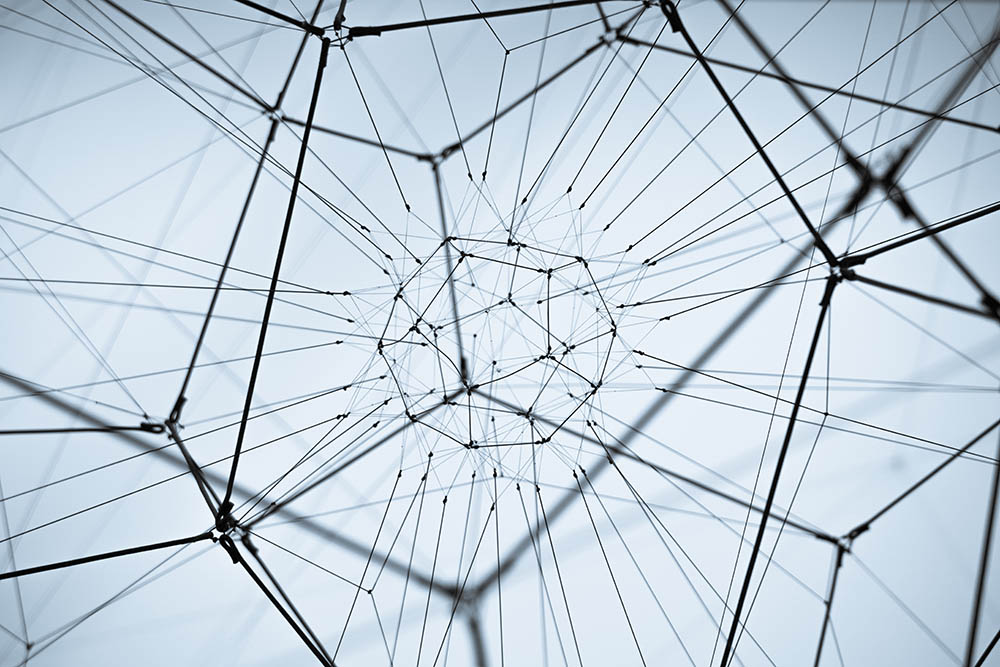
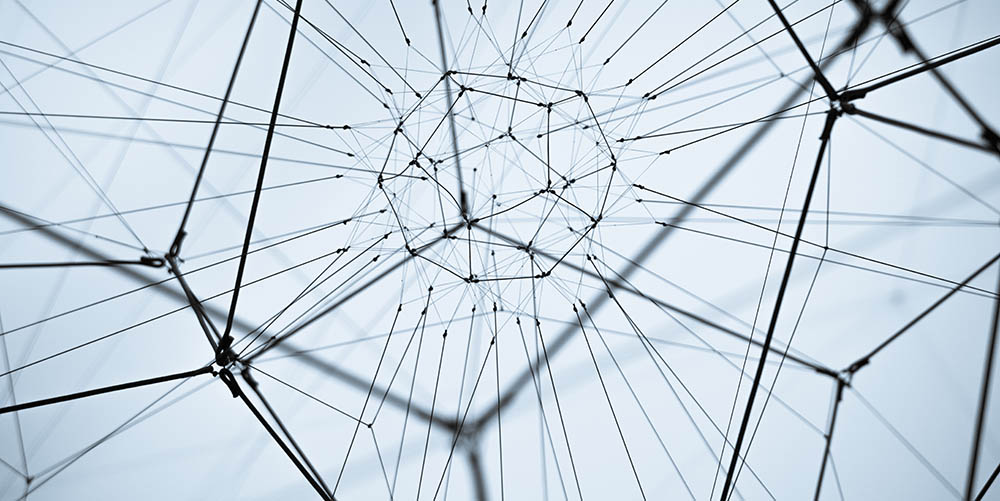
added css for ipad and some images scaled down

diff --git a/pages/exhibitionspaces.html b/pages/exhibitionspaces.html
@@ -41,27 +41,27 @@
 
         <p>
           Explore the wonders of our cosmos. Our fantastic exhibition, ‘The Sky Above Us’, explores the night sky and what we can see and know about the universe around us. We’ll locate the various constellations and galaxies that can be seen and learn a bit about the early navigators who used the
-          stars to travel by
+          stars to travel by Follow the journey of our solar exploration: from early Arab traders, toGalileo’s telescope, to the latest exploration of the planets in our solar system.
         </p>
-        <p>Follow the journey of our solar exploration: from early Arab traders, toGalileo’s telescope, to the latest exploration of the planets in our solar system.</p>
       </article>
       <article class="grid">
         <h2>Evolution</h2>
         <img src="../img/evolution.jpg" alt="test" />
 
-        <p>For centuries, philosophers and scientists have wrestled with the question of our origins. Where do we come from and how did we get here? Since Darwinproposed his theory of evolution we have had a framework for exploring and understanding our place in this world.</p>
-        <p>Discover the origins of life on this planet and how the species we know today have evolved our time. You can also take some time to meet a few of the creatures who didn’t survive, including our Woolly Mammoth, the Dodos, and a number of dinosaurs too.</p>
+        <p>
+          For centuries, philosophers and scientists have wrestled with the question of our origins. Where do we come from and how did we get here? Since Darwinproposed his theory of evolution we have had a framework for exploring and understanding our place in this world. Discover the origins of
+          life on this planet and how the species we know today have evolved our time. You can also take some time to meet a few of the creatures who didn’t survive, including our Woolly Mammoth, the Dodos, and a number of dinosaurs too.
+        </p>
       </article>
       <article class="grid">
         <h2>Biology and Medicine</h2>
         <img src="../img/biology.jpg" alt="test" />
 
-        <p>From micro-organisms to the human body, major breakthroughs in biology are offering us unique insights into the great wonders of the tiny world.</p>
         <p>
-          For many people their life expectancy is much longer and their quality of life much improved, thanks to the growth of our understanding of medicine. Over a series of exhibits we explore the history of medicine and take a look at some major breakthroughs including the discovery of
-          penicillin and the first heart transplant.
+          From micro-organisms to the human body, major breakthroughs in biology are offering us unique insights into the great wonders of the tiny world. For many people their life expectancy is much longer and their quality of life much improved, thanks to the growth of our understanding of
+          medicine. Over a series of exhibits we explore the history of medicine and take a look at some major breakthroughs including the discovery of penicillin and the first heart transplant. Many of our great medicinal discoveries have come not only from the lab, but also from observing animals
+          in the wild. Often our fellow creatures have beat us to it.
         </p>
-        <p>Many of our great medicinal discoveries have come not only from the lab, but also from observing animals in the wild. Often our fellow creatures have beat us to it.</p>
       </article>
       <article class="grid">
         <h2>Robotics and AI</h2>

diff --git a/styles/styles.css b/styles/styles.css
@@ -197,7 +197,7 @@ footer.threecolumns {
 }
 .goldenratio img {
   grid-area: image;
-  max-width: 80%;
+  max-width: 100%;
   align-self: center;
 }
 
@@ -211,6 +211,10 @@ footer.threecolumns {
     "image text"
     "image text";
   padding: 20px;
+}
+
+.goldenratio.noimage {
+  display: block;
 }
 .goldenratio.mobileDifferent {
   grid-template-areas: none;
@@ -258,7 +262,158 @@ div.circletext p {
   display: grid;
   transform: translateY(-50px);
 }
+
 div.circletext h2 {
   margin-bottom: 0;
   margin-top: 5vh;
+}
+
+.withcircle.moreSpace {
+  margin: 50px 0;
+}
+
+.withcircle.moreSpace div.circletext h2 {
+  margin-top: 8vh;
+}
+
+/* IPAD */
+@media screen and (min-width: 760px) and (max-width: 1025px) {
+  main {
+    background: url("../img/background.jpg"), url("./img/background.jpg");
+  }
+  nav div p {
+    font-size: 1.2rem;
+  }
+  nav a img {
+    height: 200px;
+  }
+  nav div:nth-of-type(1) {
+    display: flex;
+    flex-direction: column;
+    justify-content: center;
+  }
+
+  #menuList {
+    width: 50%;
+    left: 50%;
+  }
+
+  main .withcircle {
+    max-height: 30vh;
+  }
+
+  .withcircle .circletext {
+    width: 20vw;
+    height: 20vw;
+    transform: translate(-150%, -150%);
+  }
+
+  .withcircle .circletext.flipped {
+    transform: translate(50%, -220%);
+  }
+
+  .withcircle .circletext.flipped.pink {
+    transform: translate(60%, -130%);
+    width: 20vh;
+    height: 20vh;
+    background: #d25d8cd2;
+  }
+  .withcircle .circletext.flipped.pink h2 {
+    display: grid;
+    text-align: center;
+    font-size: 2.5rem;
+    gap: 20px;
+    margin-bottom: 0;
+  }
+
+  .circletext.orange {
+    background: #f191317c;
+  }
+
+  div.circletext p {
+    font-size: 1rem;
+    transform: translateY(-30px);
+  }
+
+  section.gallery {
+    grid-template-columns: 1fr 1fr 1fr 1fr;
+    grid-template-rows: 1fr;
+
+    gap: 20px;
+    margin: 5vh 0;
+  }
+
+  section.gallery .card {
+    width: 100%;
+    max-width: 100%;
+  }
+
+  section.gallery .card span {
+    font-size: 1.3rem;
+  }
+
+  .goldenratio {
+    margin: 50px;
+    box-sizing: border-box;
+    border: 5px solid #517ab0;
+    grid-template-areas:
+      "image title"
+      "image text";
+  }
+
+  .goldenratio:nth-of-type(even) {
+    grid-template-areas:
+      "title image"
+      "text image";
+  }
+
+  .goldenratio img {
+    height: 300px;
+    width: 100%;
+    object-fit: cover;
+  }
+
+  .goldenratio p,
+  .goldenratio h2 {
+    padding: 20px 30px;
+  }
+
+  .goldenratio.mobileDifferent h2,
+  article.grid h2 {
+    grid-area: title;
+    padding: 20px;
+  }
+
+  .goldenratio.mobileDifferent section,
+  article.grid p {
+    grid-area: text;
+    padding: 20px;
+  }
+
+  .goldenratio.mobileDifferent img,
+  article.grid img {
+    grid-area: image;
+    object-fit: cover;
+    align-self: center;
+  }
+
+  .goldenratio.mobileDifferent {
+    grid-template-areas:
+      "image title"
+      "image text";
+  }
+
+  article.grid {
+    grid-template-areas:
+      "image title"
+      "image text";
+    border: 5px solid #517ab0;
+    margin: 5vh 0;
+  }
+
+  .goldenratio.mobileDifferent:nth-of-type(even) {
+    grid-template-areas:
+      "title image"
+      "text image";
+  }
 }

diff --git a/pages/specialevents.html b/pages/specialevents.html
@@ -38,17 +38,17 @@
         <img src="/img/specialevent.jpg" alt="large museum room with white reflective flooring and several images on the walls" />
         <div class="circletext"><h1>Special events and exhibitions</h1></div>
       </div>
-      <div class="withcircle">
-        <img src="/img/explore.jpg" alt="large museum room with white reflective flooring and several images on the walls" />
-        <div class="circletext"><h1>Visiting professor of aeronatics</h1></div>
+      <div class="withcircle moreSpace">
+        <img src="/img/visiting.jpg" alt="large museum room with white reflective flooring and several images on the walls" />
+        <div class="circletext"><h2>Visiting professor of aeronatics</h2></div>
       </div>
-      <div class="withcircle">
-        <img src="/img/explore.jpg" alt="large museum room with white reflective flooring and several images on the walls" />
-        <div class="circletext"><h1>Night in the museum</h1></div>
+      <div class="withcircle moreSpace">
+        <img src="/img/night.jpg" alt="large museum room with white reflective flooring and several images on the walls" />
+        <div class="circletext"><h2>Night in the museum</h2></div>
       </div>
-      <div class="withcircle">
-        <img src="/img/explore.jpg" alt="large museum room with white reflective flooring and several images on the walls" />
-        <div class="circletext"><h1>Energetica exhibition on loan</h1></div>
+      <div class="withcircle moreSpace">
+        <img src="/img/energetica.jpg" alt="large museum room with white reflective flooring and several images on the walls" />
+        <div class="circletext"><h2>Energetica exhibition on loan</h2></div>
       </div>
     </main>
     <footer class="grid threecolumns">

diff --git a/pages/explore.html b/pages/explore.html
@@ -36,7 +36,7 @@
     <main>
       <div class="withcircle">
         <img src="/img/explore.jpg" alt="large museum room with white reflective flooring and several images on the walls" />
-        <div class="circletext"><h1>Explore!</h1></div>
+        <div class="circletext orange"><h1>Explore!</h1></div>
       </div>
       <section class="gallery">
         <div class="card">
@@ -66,7 +66,7 @@
       </section>
       <div class="withcircle">
         <img src="../img/youngstar.jpg" alt="large museum room with white reflective flooring and several images on the walls" />
-        <div class="circletext">
+        <div class="circletext flipped pink">
           <h2><span>Young</span><span>Stars Club</span></h2>
           <p><span>Saturdays between</span><span>10:00 and 13:00</span></p>
         </div>

diff --git a/pages/getinvolved.html b/pages/getinvolved.html
@@ -55,8 +55,7 @@
           </p>
         </section>
       </article>
-      <article class="goldenratio">
-        <img src="../img/internship.jpg" alt="test" />
+      <article class="goldenratio noimage">
         <h2>Internships</h2>
         <p>Are you interested in working in a museum? Do you enjoy the fun and excitement of sharing the wonders of nature With people? Well you could be just the right person to enjoy an internship at the museum.</p>
       </article>

diff --git a/index.html b/index.html
@@ -63,7 +63,7 @@
       </section>
       <div class="withcircle">
         <img src="img/library.jpg" alt="" />
-        <div class="circletext"><p>Over 1000 different exhibits on the many varied subjects of science to explore.</p></div>
+        <div class="circletext flipped orange"><p>Over 1000 different exhibits on the many varied subjects of science to explore.</p></div>
       </div>
     </main>
     <footer class="grid threecolumns">
